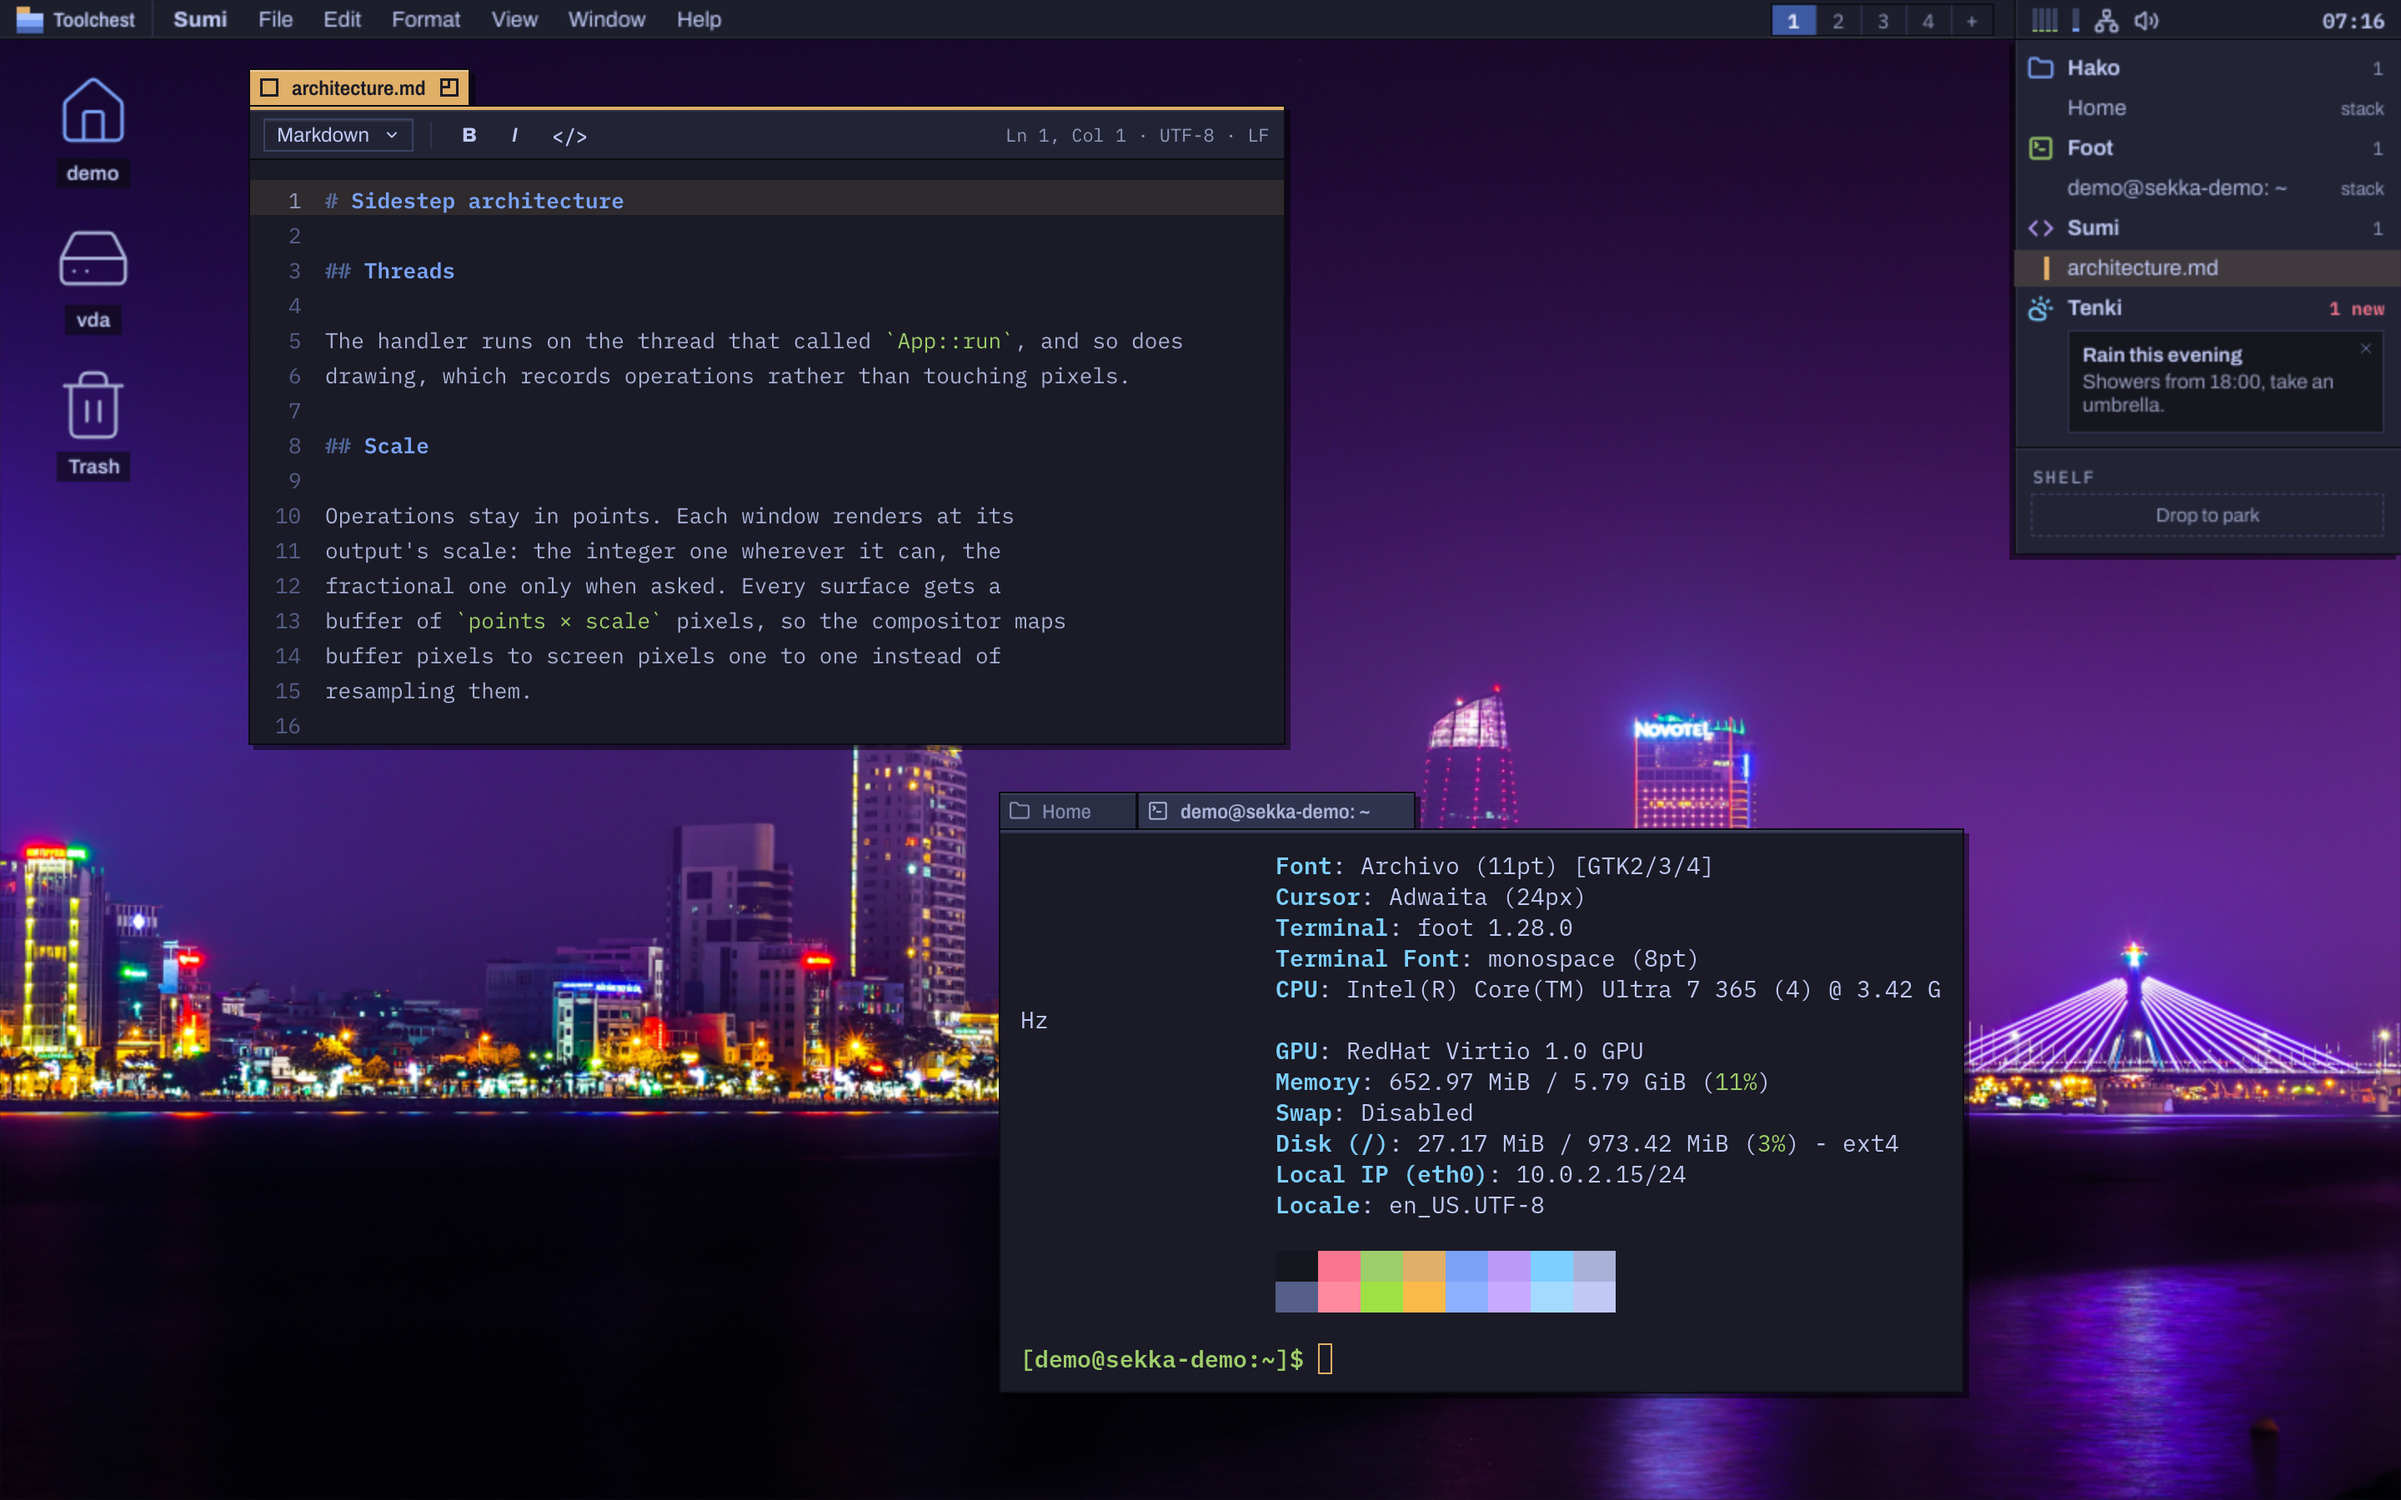
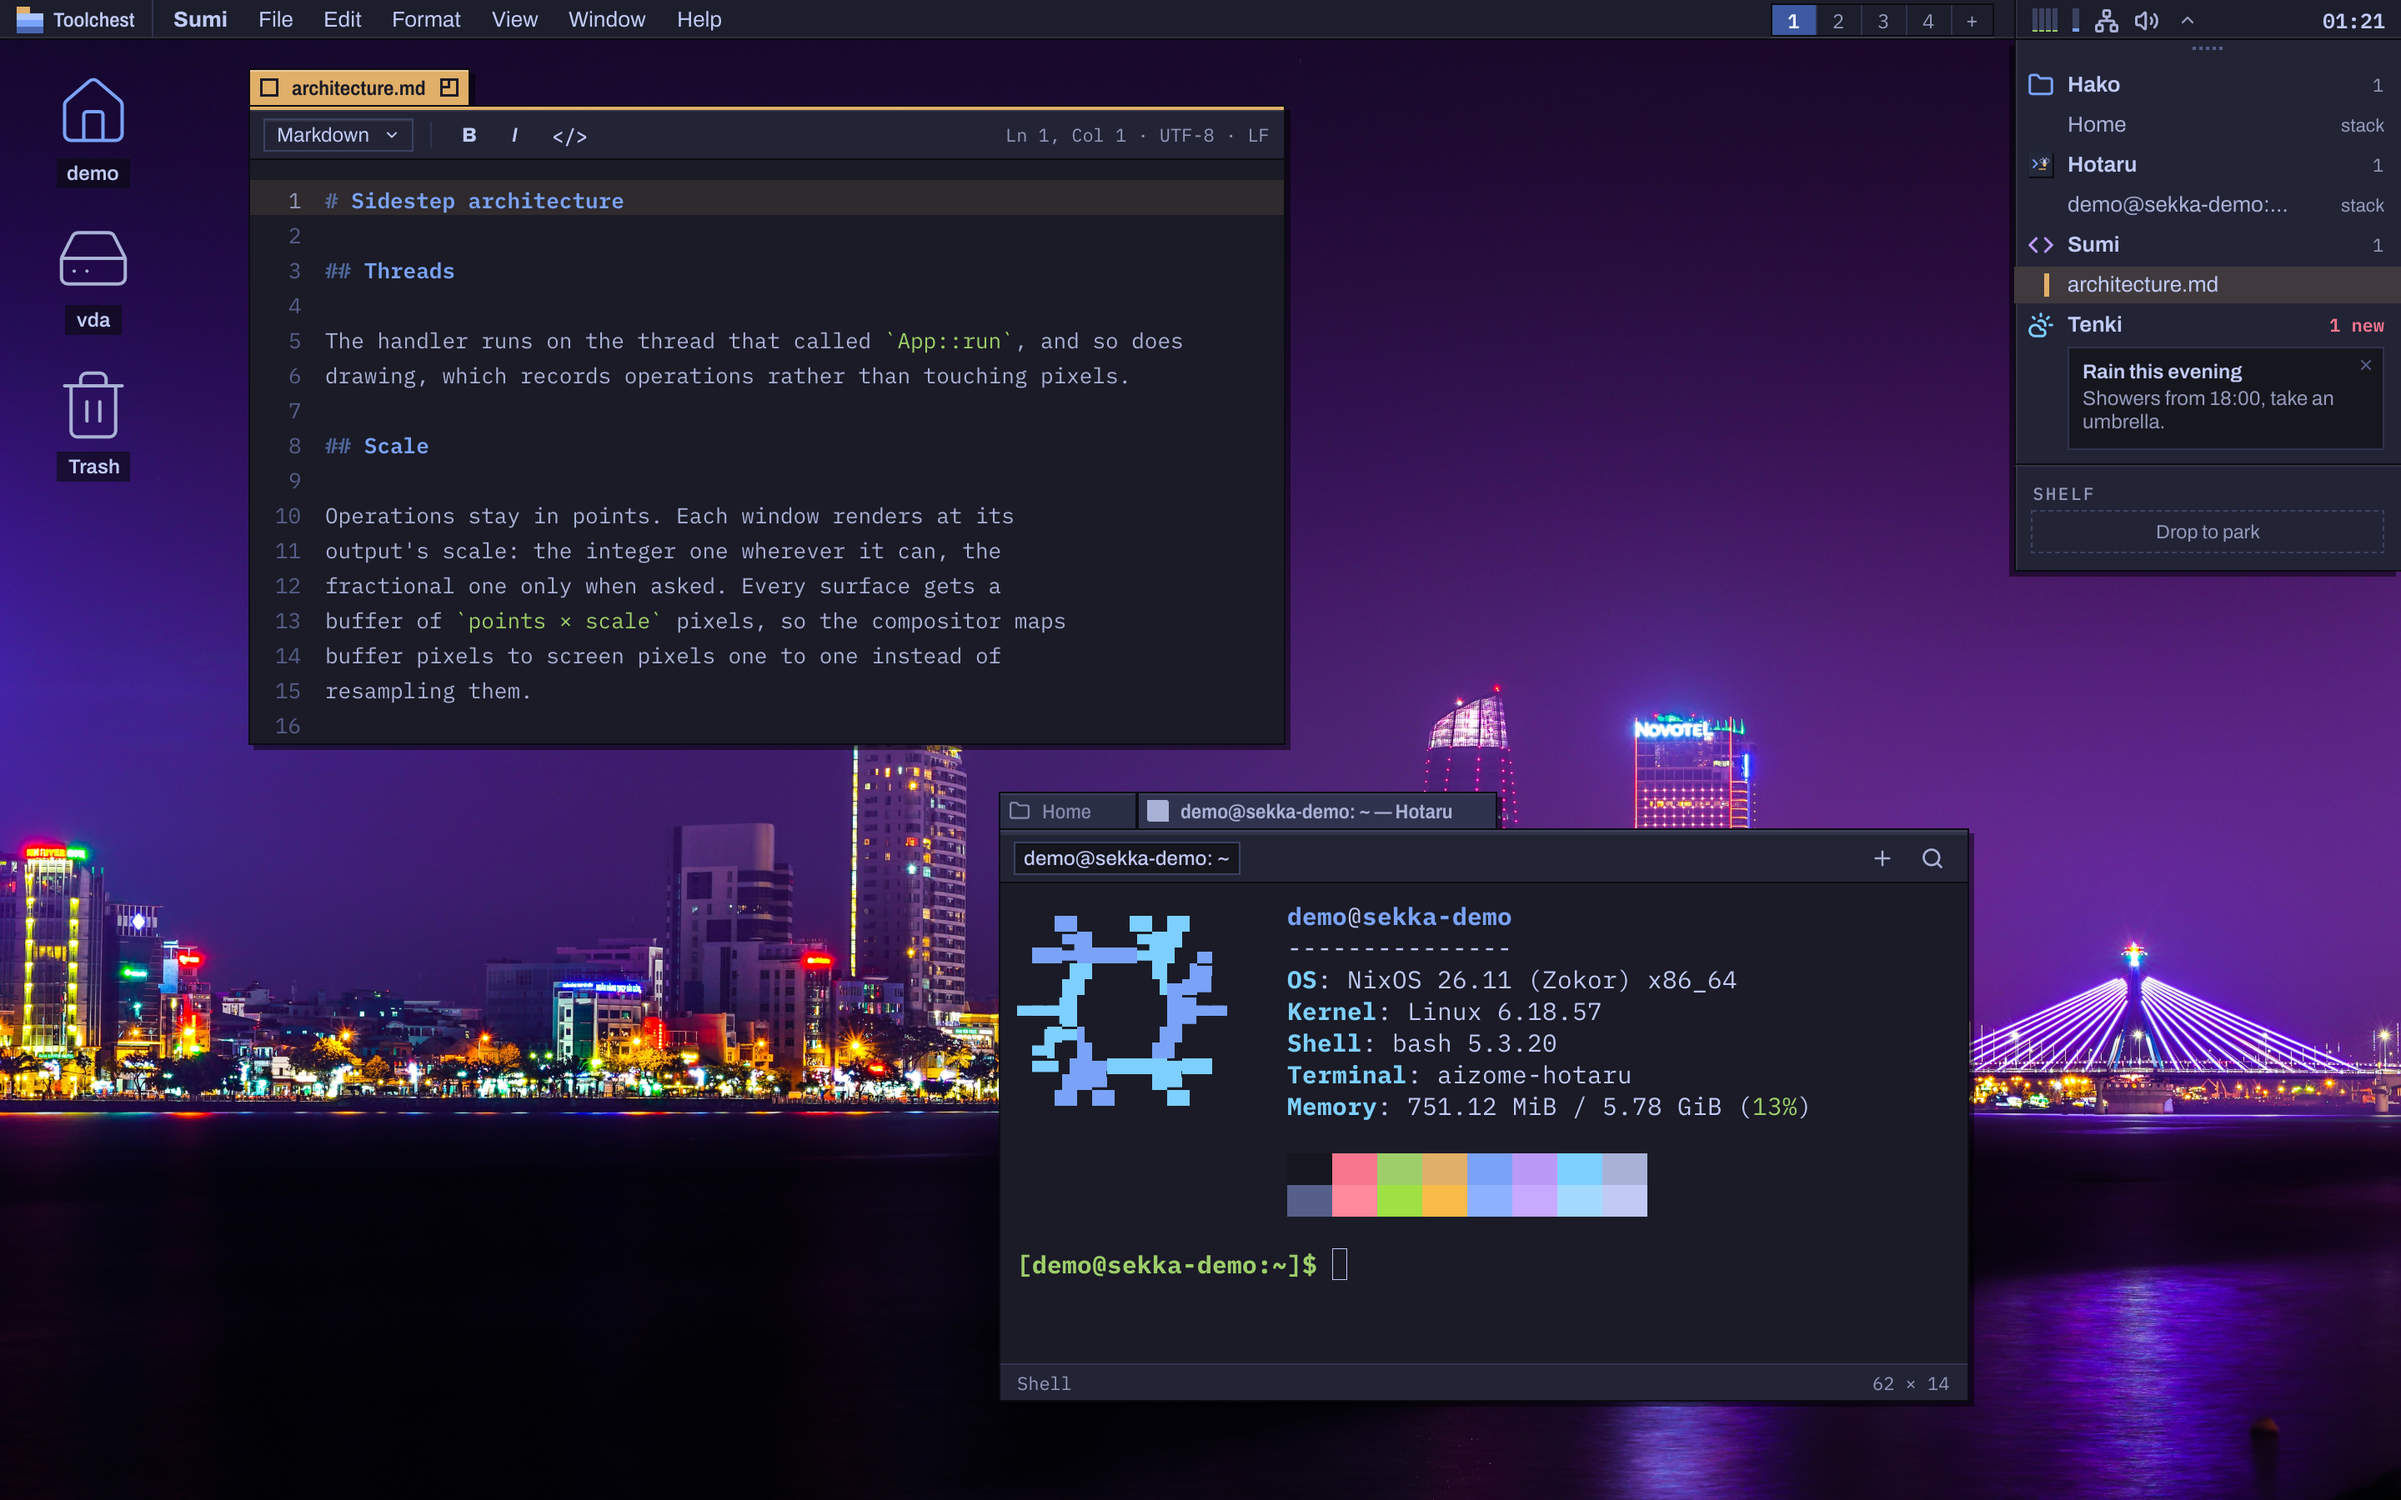
Recapture Aizome's README images with Hotaru as the terminal
The desktop, menu and palette captures stacked foot with Files; Hotaru
has been Aizome's terminal since #142. All six images come from one run
of .#screenshots-aizome at f1bb0c7a, copied byte for byte. Captions,
alt text and docs/screenshots.md name Hotaru, and the Aizome page no
longer says Hotaru opens in fish: terminals do only when fish is chosen.

diff --git a/site/src/pages.rs b/site/src/pages.rs
@@ -49,8 +49,8 @@ pub fn home(site: &Site) -> Result<Page> {
             .inline("sekka-lockup-night.svg", "hero-lockup", "Sekka 雪花")?,
         shot = site.shot(
             "aizome-desktop.png",
-            "The Aizome desktop: Sumi editing a Markdown file, Files and a terminal running fastfetch stacked in one tab group beside it, the menu bar along the top, and a notification filed under Tenki in the Deskbar.",
-            "Aizome: Sumi, with Files and a terminal stacked in one tab group, in a test VM built from Sekka's own modules.",
+            "The Aizome desktop: Sumi editing a Markdown file, Files and Hotaru, Aizome's terminal, running fastfetch, stacked in one tab group beside it, the menu bar along the top, and a notification filed under Tenki in the Deskbar.",
+            "Aizome: Sumi, with Files and Hotaru, its terminal, stacked in one tab group, in a test VM built from Sekka's own modules.",
             "win hero-shot",
         )?,
     )?;
@@ -225,8 +225,8 @@ pub fn aizome(site: &Site) -> Result<Page> {
         icon = site.asset("apps/Toolchest.svg")?,
         shot = site.shot(
             "aizome-desktop.png",
-            "The Aizome desktop: Sumi editing a Markdown file, Files and a terminal running fastfetch stacked in one tab group beside it, the menu bar along the top, and a notification filed under Tenki in the Deskbar.",
-            "Sumi, with Files and a terminal stacked in one tab group beside it, in a test VM built from Sekka's own modules.",
+            "The Aizome desktop: Sumi editing a Markdown file, Files and Hotaru, Aizome's terminal, running fastfetch, stacked in one tab group beside it, the menu bar along the top, and a notification filed under Tenki in the Deskbar.",
+            "Sumi, with Files and Hotaru, Aizome's terminal, stacked in one tab group beside it, in a test VM built from Sekka's own modules.",
             "win wide-shot",
         )?,
     )?;
@@ -353,7 +353,7 @@ pub fn aizome(site: &Site) -> Result<Page> {
 <section class="tiles">
   <article class="win">
     <h2>Hotaru {hotaru}, the terminal</h2>
-    <p><kbd>Super</kbd> + <kbd>Return</kbd> opens Hotaru, Aizome's own terminal, and programs that need a terminal open in it too. It is built with Aizome's toolkit, not GTK or a web view: native menus, tabs of independently focused split panes, and search through the scrollback. It opens in fish.</p>
+    <p><kbd>Super</kbd> + <kbd>Return</kbd> opens Hotaru, Aizome's own terminal, and programs that need a terminal open in it too. It is built with Aizome's toolkit, not GTK or a web view: native menus, tabs of independently focused split panes, and search through the scrollback.</p>
     <p>foot is installed too: choose it in Settei, under General › Default Apps › Terminal.</p>
   </article>
   <article class="win">

diff --git a/docs/screenshots.md b/docs/screenshots.md
@@ -73,7 +73,7 @@ it keeps the whole Tatami display, including its bar and window edges.
 | [Yukimi](images/sekka/yukimi.png) | 2560 × 1600 | Shared native Yukimi in Tatami, reading the test VM `sekka-demo`; whole display, scale 2 |
 | [Plasma](images/sekka/plasma.png) | 2560 × 1600 | Sekka's Plasma session with Konsole running fastfetch over Dolphin |
 | [GNOME](images/sekka/gnome.png) | 2560 × 1600 | Historical capture of Sekka's GNOME session with Files over the former GTK Yukimi |
-| [Aizome](images/sekka/aizome-desktop.png) | 2880 × 1800 | The whole Aizome desktop: Sumi with a Markdown file, Files and a terminal (running fastfetch) stacked in one tab group, a notification filed under Tenki in the Deskbar |
+| [Aizome](images/sekka/aizome-desktop.png) | 2880 × 1800 | The whole Aizome desktop: Sumi with a Markdown file beside Files and Hotaru, Aizome's terminal (running fastfetch), stacked in one tab group, a notification filed under Tenki in the Deskbar |
 | [Aizome's menu at the pointer](images/sekka/aizome-menu.png) | 2880 × 1800 | The same desktop with Super + right-click's whole menu of Sumi at the pointer |
 | [Aizome's palette](images/sekka/aizome-palette.png) | 2880 × 1800 | The same desktop with the command palette (Super + Space), "find" typed |
 | [Settei](images/sekka/aizome-settings.png) | 1896 × 1380 | Aizome's Settings at Appearance, cropped to its window with its tab, frame and shadow |
@@ -146,4 +146,6 @@ virtual display at its native resolution, and the three application images are
 crops of it to the window with its tab and shadow, unscaled. Genkan is the
 debug build's welcome preview (`CALAMARES_UI_PREVIEW=welcome`), with the
 pointer moved off its window; its sample data are fixed, and production builds
-leave the preview out.
+leave the preview out. The current captures were made on 31 October 2026 from
+commit f1bb0c7a, on a build host's KVM, with Hotaru as the stacked terminal;
+fastfetch prints a short structure so its output fits Hotaru's window.

diff --git a/README.md b/README.md
@@ -73,7 +73,7 @@ Kitty graphics protocol, DEC modes 1039 and 1045, or DECSASD; foot is still
 installed for programs that want them. To use foot instead, choose it in
 Settei, under General → Default Apps → Terminal.
 
-[![Aizome with Sumi beside Files and a terminal stacked in one tab group](docs/images/sekka/aizome-desktop.png)](docs/images/sekka/aizome-desktop.png)
+[![Aizome with Sumi beside Files and Hotaru stacked in one tab group](docs/images/sekka/aizome-desktop.png)](docs/images/sekka/aizome-desktop.png)
 
 [![The whole menu at the pointer](docs/images/sekka/aizome-menu.png)](docs/images/sekka/aizome-menu.png)
 
